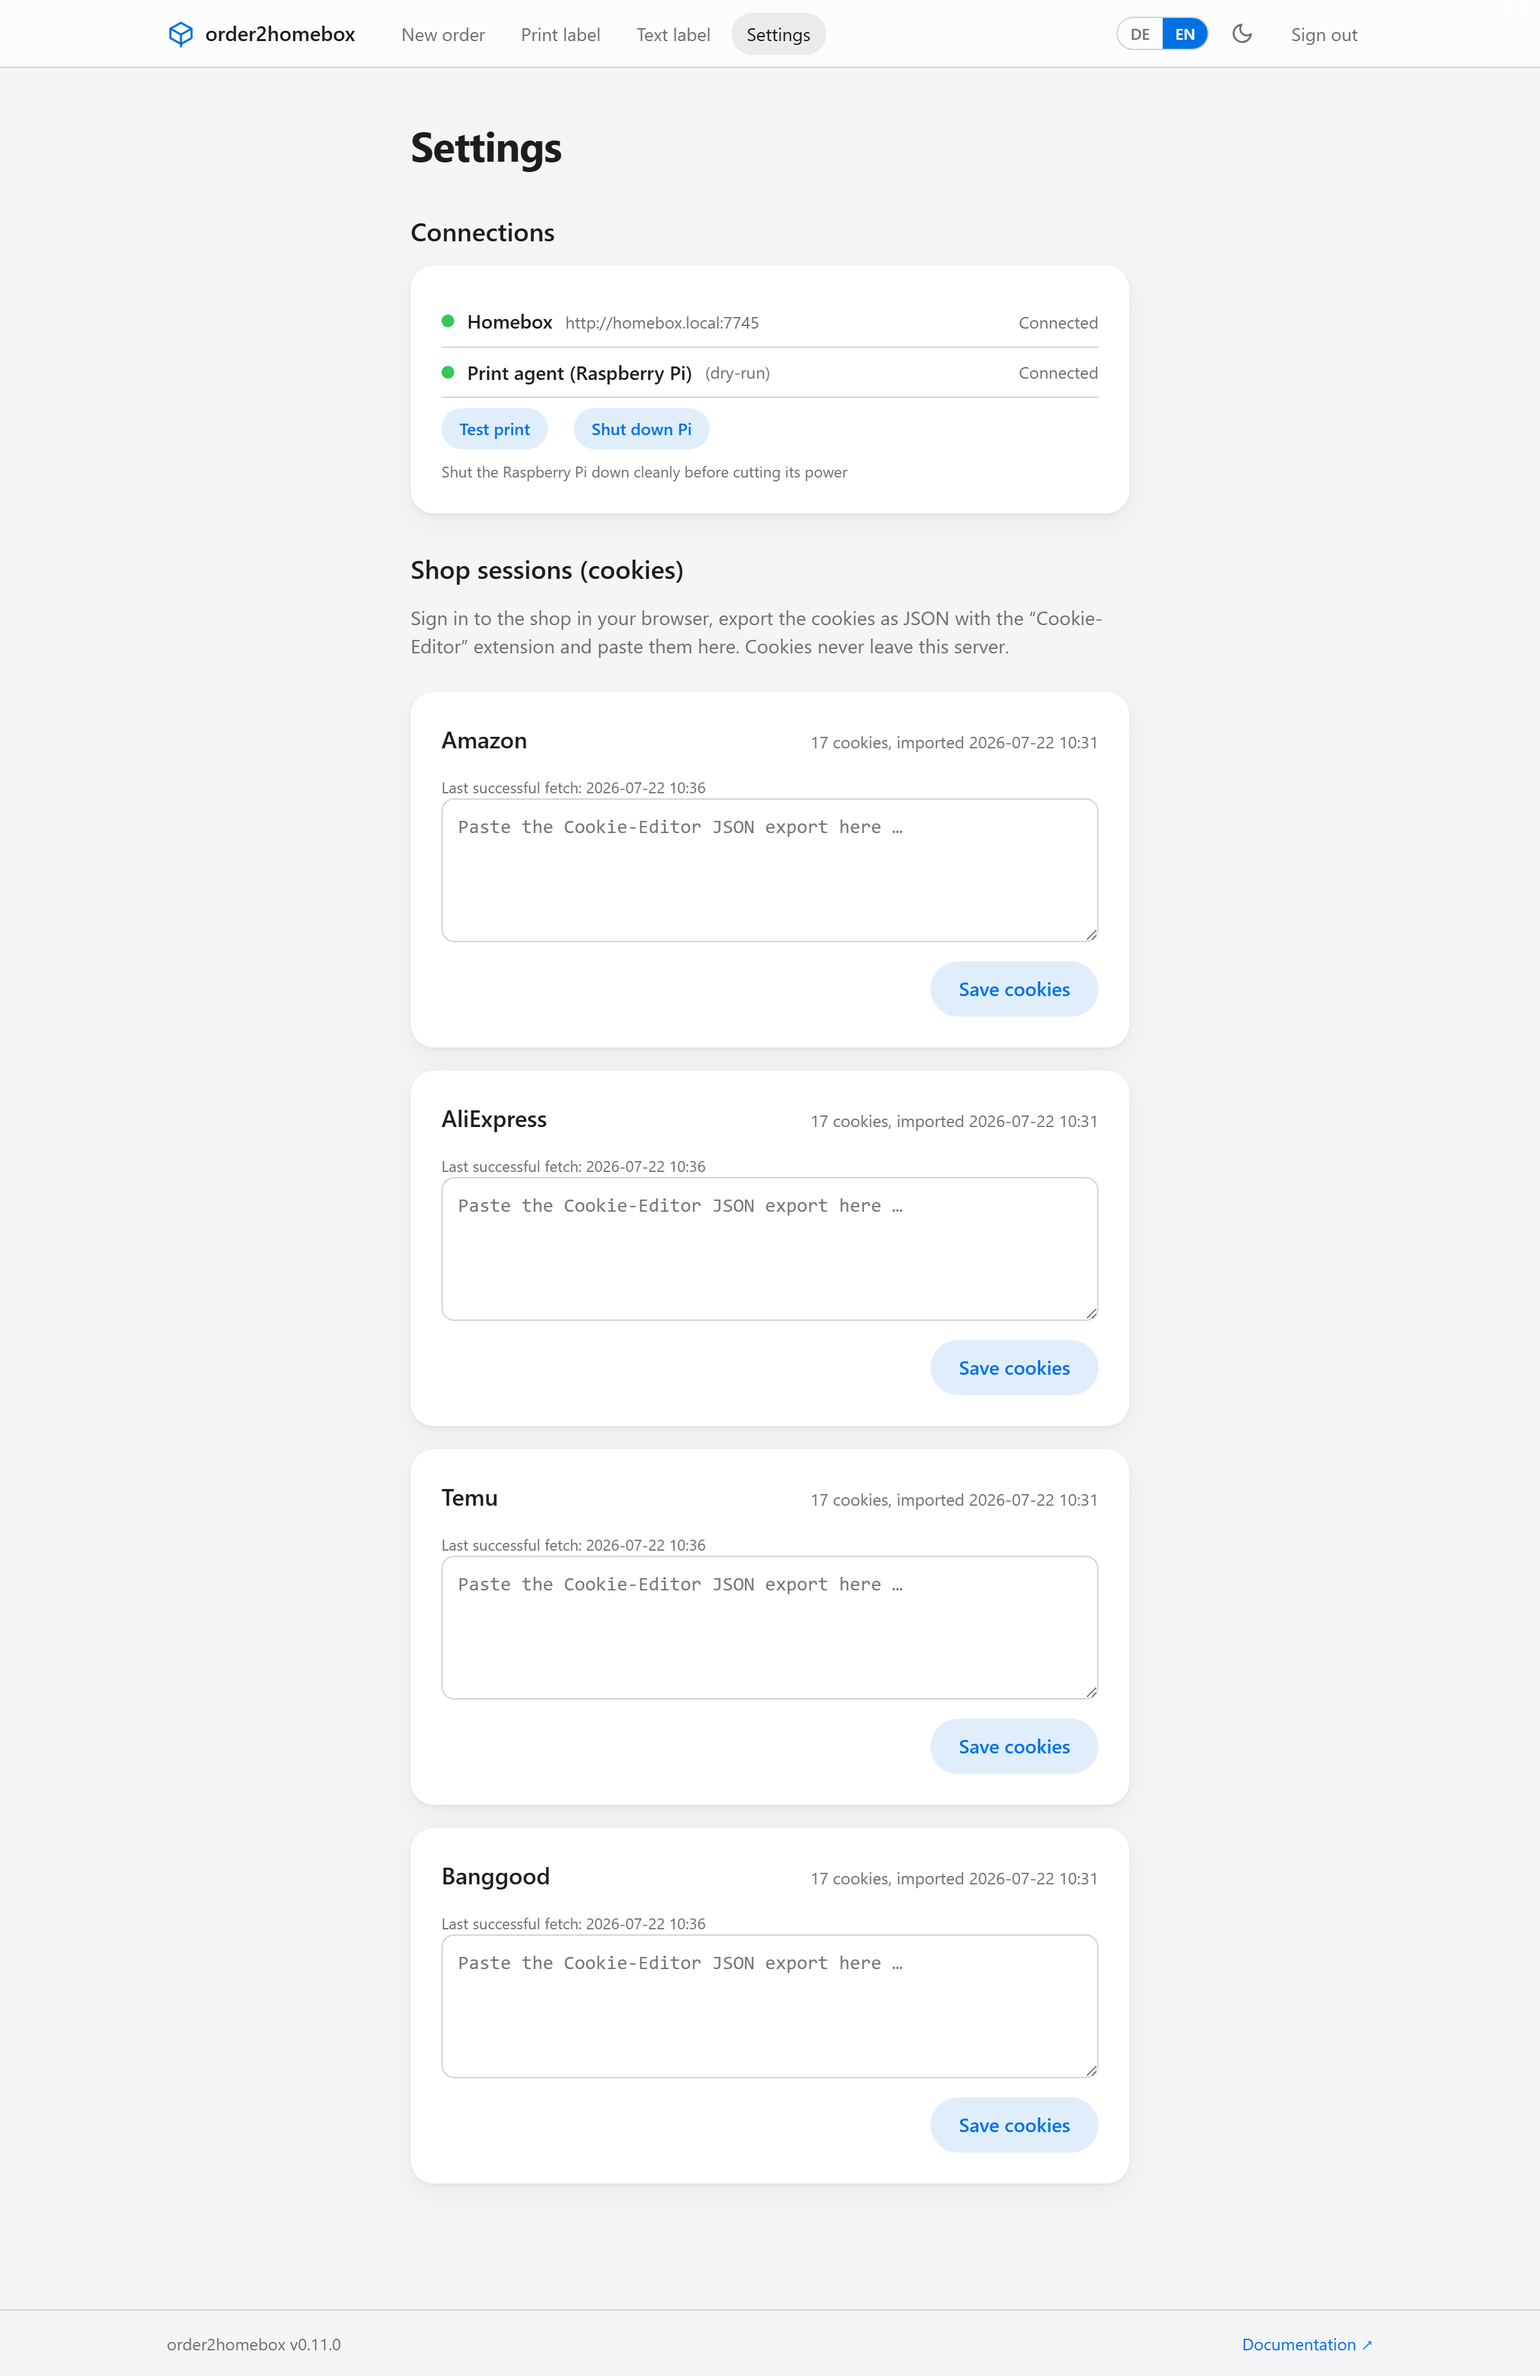
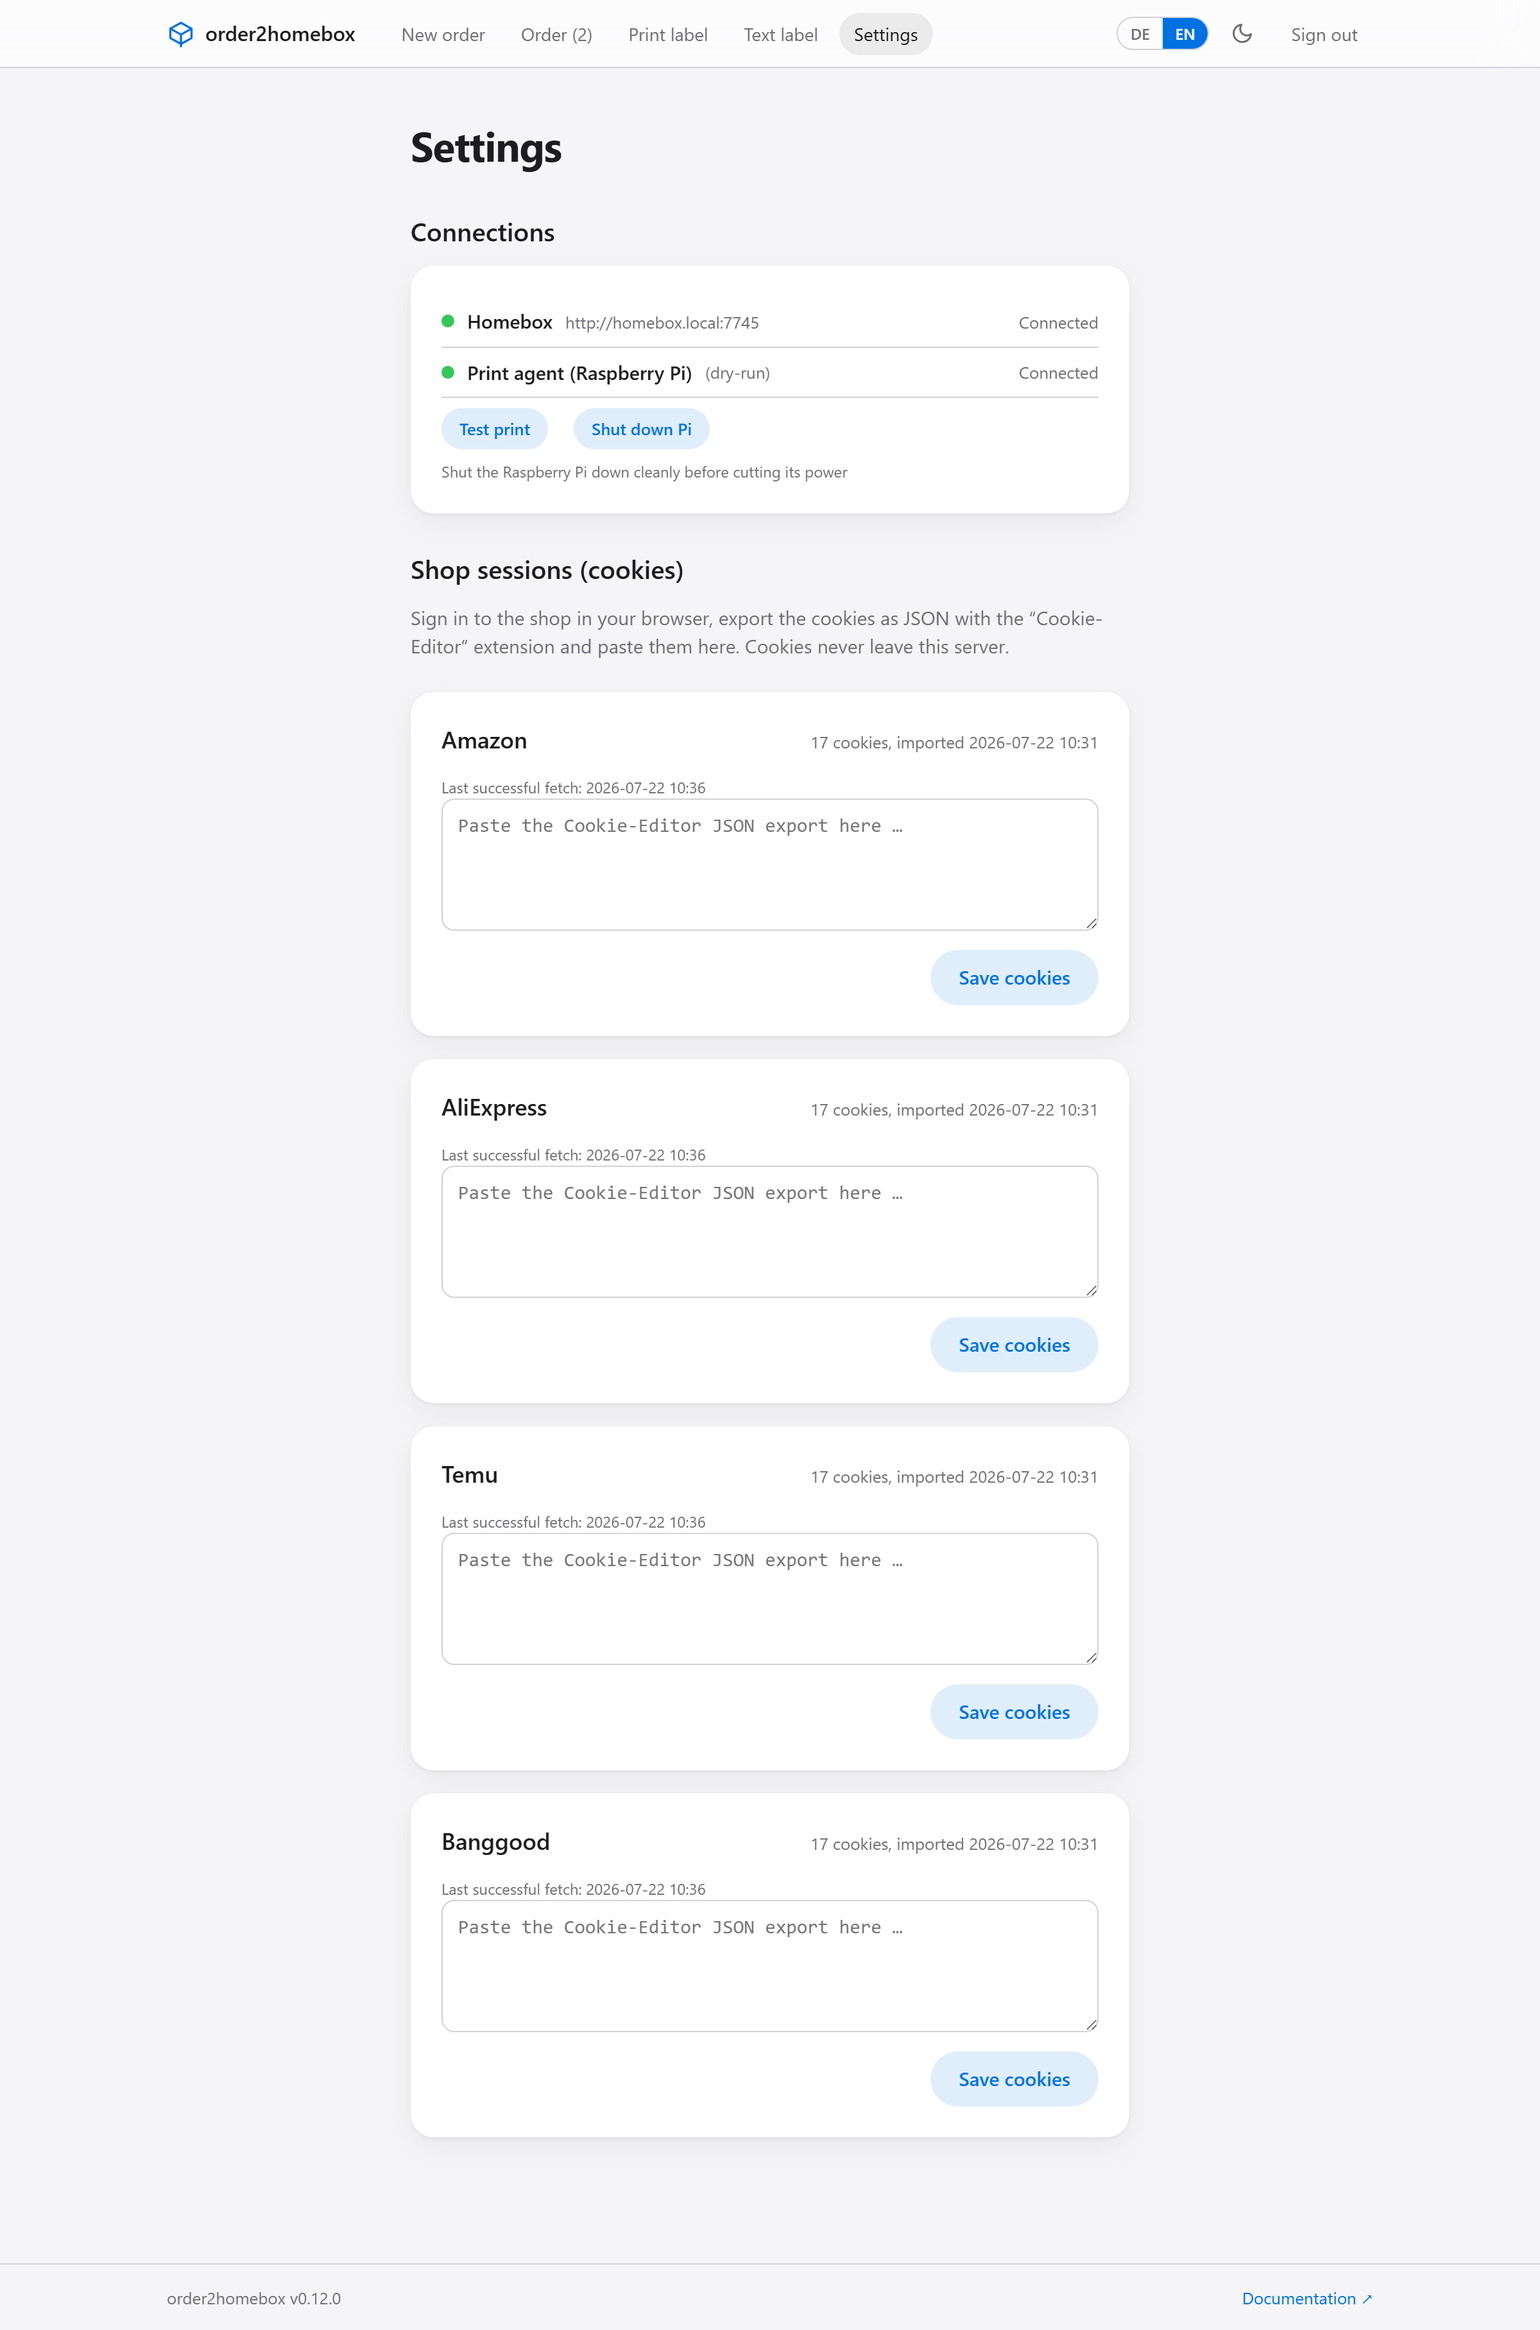
Name the 0.12.0 changes in the CHANGELOG and refresh the screenshots
The screenshots also gain a fix of their own: a full-page capture painted the
sticky navbar wherever it happened to sit, which since the taller item cards
meant straight across the middle of the edit page. The shot script pins it to
static for those captures.

diff --git a/CHANGELOG.md b/CHANGELOG.md
@@ -6,7 +6,7 @@ bug-fix or maintenance release a patch bump.
 
 Each version links to its GitHub release, which carries the full notes.
 
-## [Unreleased]
+## [0.12.0] — 2026-08-11
 
 ### Added
 
@@ -402,6 +402,7 @@ orders.
 - **Deployment** — Proxmox host script that creates the LXC, in-container
   installer and `update.sh`, plus `install-pi.sh` / `update-pi.sh` for the Pi.
 
+[0.12.0]: https://github.com/skyhell/order2homebox/releases/tag/v0.12.0
 [0.11.0]: https://github.com/skyhell/order2homebox/releases/tag/v0.11.0
 [0.10.0]: https://github.com/skyhell/order2homebox/releases/tag/v0.10.0
 [0.9.1]: https://github.com/skyhell/order2homebox/releases/tag/v0.9.1
